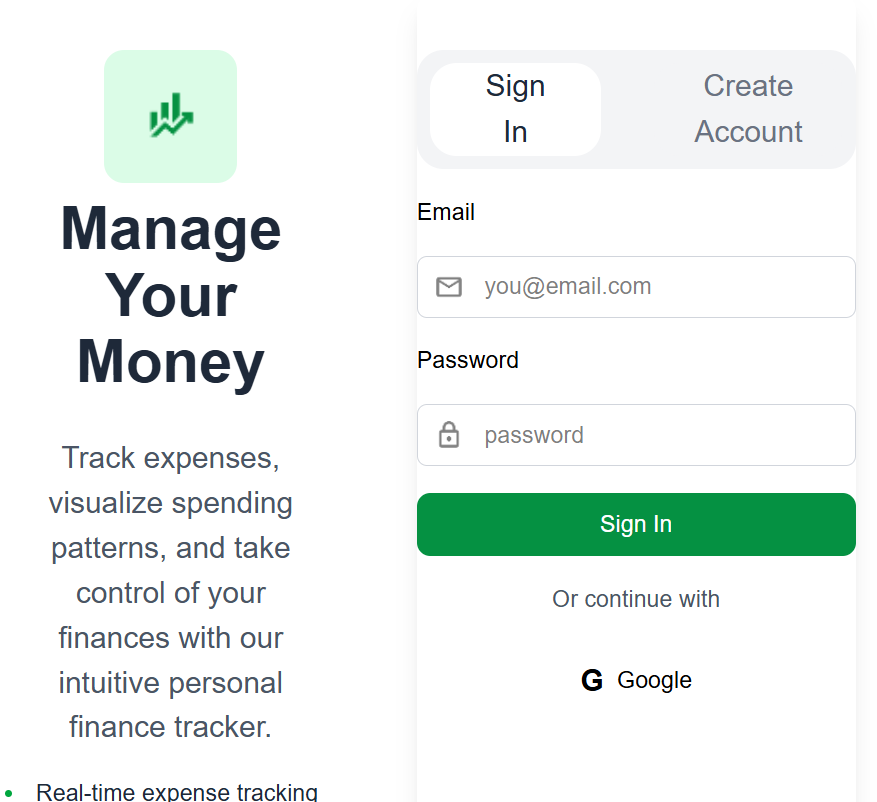
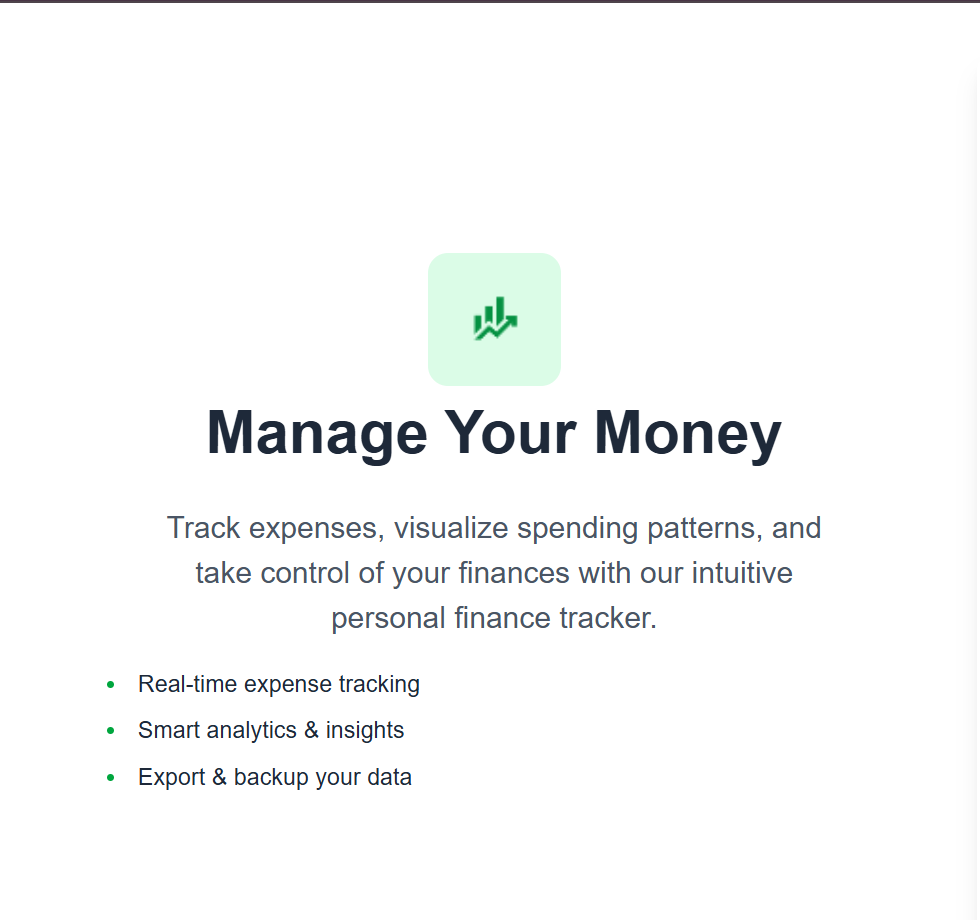
little fixes

diff --git a/index.html b/index.html
@@ -146,7 +146,7 @@
           </article>
 
           <article class="glass-card project-card">
-            <img src="image/bizterimbere.png" alt="BIZTerimbere App" />
+            <img src="image/Inventory.png" alt="BIZTerimbere App" />
             <h3>BIZTerimbere App</h3>
             <p>Smart inventory & profit optimization for SMBs in Rwanda with economic intelligence.</p>
             <a href="https://bizterimbere.netlify.app/" target="_blank" rel="noopener noreferrer" class="btn btn-secondary">View Project</a>
@@ -163,6 +163,20 @@
             <img src="image/dessert.png" alt="Dessert Shop App" />
             <h3>Dessert Shop App</h3>
             <p>Full-stack e-commerce app — browse desserts, add to cart, and place orders.</p>
+            <a href="https://my-dessert-shop.netlify.app/" target="_blank" rel="noopener noreferrer" class="btn btn-secondary">View Project</a>
+          </article>
+
+           <article class="glass-card project-card">
+            <img src="image/Ecommerce.png" alt="Dessert Shop App" />
+            <h3>E-Commerce App</h3>
+            <p>Full-stack e-commerce app — browse different products, add to cart, and place orders.</p>
+            <a href="https://kapee-ecommerce-1.onrender.com" target="_blank" rel="noopener noreferrer" class="btn btn-secondary">View Project</a>
+          </article>
+
+           <article class="glass-card project-card">
+            <img src="image/NFCQR.png" alt="E-Card Platform" />
+            <h3>E-Card Platform</h3>
+            <p>A modern E-Card platform using NFC and QR technology to instantly share digital profiles, business info, and contact details.</p>
             <a href="https://my-dessert-shop.netlify.app/" target="_blank" rel="noopener noreferrer" class="btn btn-secondary">View Project</a>
           </article>
         </div>
